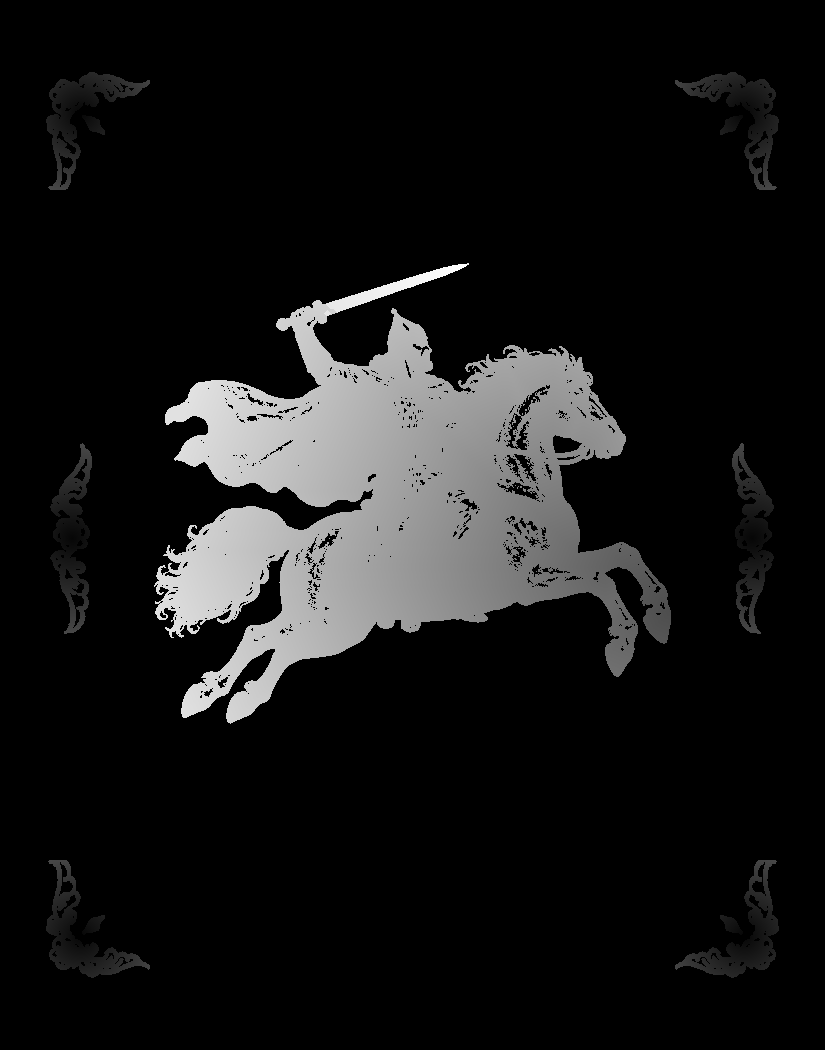
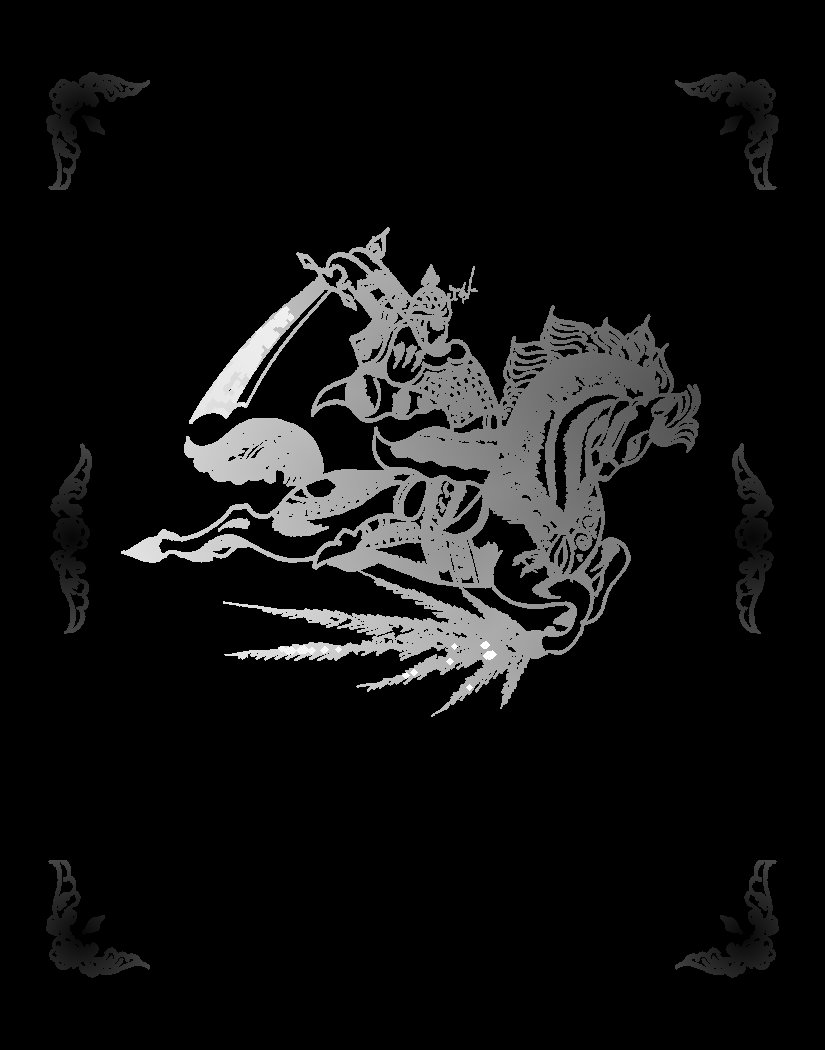
«Гравюра»: на крышку вернулся всадник с фото настоящей крышки (в меню, заставке, при победе и в «Поделиться»); ролик — подпись «тот самый всадник» и звуки игры (кубики, фишки) по кадрам записи
Claude-Session: https://claude.ai/code/session_013vq6NREHT7txoK1nXmxN83

Changed region(s): [[0.1515, 0.2133, 0.8485, 0.701]]

diff --git a/index.html b/index.html
@@ -1042,10 +1042,10 @@ function probeFps(){
 }
 // GAME_VERSION — для людей, меняется при крупных обновлениях; APP_VERSION — номер сборки для кэша, растёт при каждой выкладке
 const GAME_VERSION='1.0';
-const APP_VERSION='152';   // совпадает с V в sw.js: номер сборки (имя кэша)
+const APP_VERSION='153';   // совпадает с V в sw.js: номер сборки (имя кэша)
 // AV — короткие хеши содержимого картинок (их пишет tools/stamp.py): адрес меняется, только когда меняется сам файл,
 // поэтому после обновления заново качается лишь то, что изменилось
-/*AV*/const AV={"boards/ararat-thumb.webp":"72ff05c2","boards/ararat.webp":"7c44b1ce","boards/ck-beech.png":"ef00f4f8","boards/ck-bronze.png":"db6b57b9","boards/ck-copper.png":"761c282a","boards/ck-gold.png":"87fddeef","boards/ck-ivory.png":"372b72ce","boards/ck-khatam.png":"8a67a596","boards/ck-khatamd.png":"fc76598b","boards/ck-onyx.png":"bfb41b3a","boards/ck-pearl.png":"83aaf841","boards/ck-pomegranate.png":"73a5236d","boards/ck-silver.png":"18222740","boards/ck-walnut.png":"1857427e","boards/ckside-beech.png":"2e4a01b1","boards/ckside-bronze.png":"700fbb0d","boards/ckside-copper.png":"54a53742","boards/ckside-gold.png":"f3c3b036","boards/ckside-ivory.png":"cce1b2d9","boards/ckside-khatam.png":"ba9fea77","boards/ckside-khatamd.png":"bb2cd930","boards/ckside-onyx.png":"3695f6bf","boards/ckside-pearl.png":"d9c5e6f3","boards/ckside-pomegranate.png":"79fe0975","boards/ckside-silver.png":"6d16c666","boards/ckside-walnut.png":"bc0fa647","boards/die-1.png":"2d6046dd","boards/die-2.png":"dba1ef51","boards/die-3.png":"c4754c62","boards/die-4.png":"c26495e1","boards/die-5.png":"49661381","boards/die-6.png":"3d46b683","boards/die-amber-1.png":"105d06f3","boards/die-amber-2.png":"f7695264","boards/die-amber-3.png":"518fcc5b","boards/die-amber-4.png":"82e42d65","boards/die-amber-5.png":"a53a1fed","boards/die-amber-6.png":"6114a46b","boards/die-gold-1.png":"606f1c7a","boards/die-gold-2.png":"68eb7219","boards/die-gold-3.png":"4abf64c2","boards/die-gold-4.png":"7ff8a963","boards/die-gold-5.png":"9f589a63","boards/die-gold-6.png":"f67c180d","boards/die-wood-1.png":"f9fecd23","boards/die-wood-2.png":"dad9e71b","boards/die-wood-3.png":"ebe40557","boards/die-wood-4.png":"f8c4f6d2","boards/die-wood-5.png":"239c202c","boards/die-wood-6.png":"ea05a4a3","boards/glass-thumb.webp":"5db12bdb","boards/glass.webp":"3fe1cddb","boards/goldrev-med-l.webp":"875c719a","boards/goldrev-med-r.webp":"beae367a","boards/goldrev-thumb.webp":"1b2ad914","boards/goldrev.webp":"898ad659","boards/gravura-lid-order.png":"89774fcd","boards/gravura-lid-plain.webp":"e9366ab5","boards/gravura-lid.webp":"62c35a03","boards/gravura-thumb.webp":"8ccf7340","boards/gravura.webp":"8d2f6ae3","boards/intro-rev-w.webp":"c1e7a4bf","boards/intro-rev.webp":"9627dbfd","boards/leafshade.webp":"8666bd89","boards/lid-plain.webp":"32dbab24","boards/lid.webp":"47f4a845","boards/maple.webp":"c7e0d43c","boards/night-thumb.webp":"61a42599","boards/night.webp":"96cd9880","boards/plaque.webp":"6c60c0b6","boards/pomegranate-thumb.webp":"d5574e56","boards/pomegranate.webp":"a89189f5","boards/prop-beads.webp":"01fd0477","boards/prop-cup.webp":"67e8e539","boards/prop-pack.webp":"a1f55e5d","boards/pt-ararat-long.png":"b706af0c","boards/pt-ararat-short.png":"0d9bdbb6","boards/pt-glass-long.png":"2474d3b3","boards/pt-glass-short.png":"2474d3b3","boards/pt-goldrev-long.png":"b706af0c","boards/pt-goldrev-short.png":"0d9bdbb6","boards/pt-gravura-long.png":"e2440a04","boards/pt-gravura-short.png":"e2440a04","boards/pt-night-long.png":"c9576df0","boards/pt-night-short.png":"c9576df0","boards/pt-pomegranate-long.png":"b706af0c","boards/pt-pomegranate-short.png":"0d9bdbb6","boards/pt-sevan-long.png":"b706af0c","boards/pt-sevan-short.png":"0d9bdbb6","boards/pt-winter-long.png":"b706af0c","boards/pt-winter-short.png":"0d9bdbb6","boards/pt-yerevan-long.png":"f28ec383","boards/pt-yerevan-short.png":"78fa0ed8","boards/sevan-thumb.webp":"35db3522","boards/sevan.webp":"56ec51be","boards/table.webp":"d353fc6c","boards/walnut-plank.webp":"3f05219c","boards/winter-thumb.webp":"2abf62d7","boards/winter.webp":"dca71660","boards/yerevan-thumb.webp":"4817779b","boards/yerevan.webp":"64e36c39"};/*/AV*/
+/*AV*/const AV={"boards/ararat-thumb.webp":"72ff05c2","boards/ararat.webp":"7c44b1ce","boards/ck-beech.png":"ef00f4f8","boards/ck-bronze.png":"db6b57b9","boards/ck-copper.png":"761c282a","boards/ck-gold.png":"87fddeef","boards/ck-ivory.png":"372b72ce","boards/ck-khatam.png":"8a67a596","boards/ck-khatamd.png":"fc76598b","boards/ck-onyx.png":"bfb41b3a","boards/ck-pearl.png":"83aaf841","boards/ck-pomegranate.png":"73a5236d","boards/ck-silver.png":"18222740","boards/ck-walnut.png":"1857427e","boards/ckside-beech.png":"2e4a01b1","boards/ckside-bronze.png":"700fbb0d","boards/ckside-copper.png":"54a53742","boards/ckside-gold.png":"f3c3b036","boards/ckside-ivory.png":"cce1b2d9","boards/ckside-khatam.png":"ba9fea77","boards/ckside-khatamd.png":"bb2cd930","boards/ckside-onyx.png":"3695f6bf","boards/ckside-pearl.png":"d9c5e6f3","boards/ckside-pomegranate.png":"79fe0975","boards/ckside-silver.png":"6d16c666","boards/ckside-walnut.png":"bc0fa647","boards/die-1.png":"2d6046dd","boards/die-2.png":"dba1ef51","boards/die-3.png":"c4754c62","boards/die-4.png":"c26495e1","boards/die-5.png":"49661381","boards/die-6.png":"3d46b683","boards/die-amber-1.png":"105d06f3","boards/die-amber-2.png":"f7695264","boards/die-amber-3.png":"518fcc5b","boards/die-amber-4.png":"82e42d65","boards/die-amber-5.png":"a53a1fed","boards/die-amber-6.png":"6114a46b","boards/die-gold-1.png":"606f1c7a","boards/die-gold-2.png":"68eb7219","boards/die-gold-3.png":"4abf64c2","boards/die-gold-4.png":"7ff8a963","boards/die-gold-5.png":"9f589a63","boards/die-gold-6.png":"f67c180d","boards/die-wood-1.png":"f9fecd23","boards/die-wood-2.png":"dad9e71b","boards/die-wood-3.png":"ebe40557","boards/die-wood-4.png":"f8c4f6d2","boards/die-wood-5.png":"239c202c","boards/die-wood-6.png":"ea05a4a3","boards/glass-thumb.webp":"5db12bdb","boards/glass.webp":"3fe1cddb","boards/goldrev-med-l.webp":"875c719a","boards/goldrev-med-r.webp":"beae367a","boards/goldrev-thumb.webp":"1b2ad914","boards/goldrev.webp":"898ad659","boards/gravura-lid-order.png":"b12e4361","boards/gravura-lid-plain.webp":"e9366ab5","boards/gravura-lid.webp":"500e3194","boards/gravura-thumb.webp":"8ccf7340","boards/gravura.webp":"8d2f6ae3","boards/intro-rev-w.webp":"c1e7a4bf","boards/intro-rev.webp":"9627dbfd","boards/leafshade.webp":"8666bd89","boards/lid-plain.webp":"32dbab24","boards/lid.webp":"47f4a845","boards/maple.webp":"c7e0d43c","boards/night-thumb.webp":"61a42599","boards/night.webp":"96cd9880","boards/plaque.webp":"6c60c0b6","boards/pomegranate-thumb.webp":"d5574e56","boards/pomegranate.webp":"a89189f5","boards/prop-beads.webp":"01fd0477","boards/prop-cup.webp":"67e8e539","boards/prop-pack.webp":"a1f55e5d","boards/pt-ararat-long.png":"b706af0c","boards/pt-ararat-short.png":"0d9bdbb6","boards/pt-glass-long.png":"2474d3b3","boards/pt-glass-short.png":"2474d3b3","boards/pt-goldrev-long.png":"b706af0c","boards/pt-goldrev-short.png":"0d9bdbb6","boards/pt-gravura-long.png":"e2440a04","boards/pt-gravura-short.png":"e2440a04","boards/pt-night-long.png":"c9576df0","boards/pt-night-short.png":"c9576df0","boards/pt-pomegranate-long.png":"b706af0c","boards/pt-pomegranate-short.png":"0d9bdbb6","boards/pt-sevan-long.png":"b706af0c","boards/pt-sevan-short.png":"0d9bdbb6","boards/pt-winter-long.png":"b706af0c","boards/pt-winter-short.png":"0d9bdbb6","boards/pt-yerevan-long.png":"f28ec383","boards/pt-yerevan-short.png":"78fa0ed8","boards/sevan-thumb.webp":"35db3522","boards/sevan.webp":"56ec51be","boards/table.webp":"d353fc6c","boards/walnut-plank.webp":"3f05219c","boards/winter-thumb.webp":"2abf62d7","boards/winter.webp":"dca71660","boards/yerevan-thumb.webp":"4817779b","boards/yerevan.webp":"64e36c39"};/*/AV*/
 const av=p=>p+'?v='+(AV[p]||APP_VERSION);
 const NS='http://www.w3.org/2000/svg';
 const f2=v=>(+v).toFixed(1);

diff --git a/sw.js b/sw.js
@@ -1,8 +1,8 @@
 // Офлайн-кэш: страница, доски, звуки и шрифты кэшируются при установке.
-const V = '152';                 // = APP_VERSION в index.html
+const V = '153';                 // = APP_VERSION в index.html
 const VERSION = 'nardy-v' + V;
 // хеши содержимого картинок — те же, что AV в index.html (пишет tools/stamp.py)
-/*AV*/const AV={"boards/ararat-thumb.webp":"72ff05c2","boards/ararat.webp":"7c44b1ce","boards/ck-beech.png":"ef00f4f8","boards/ck-bronze.png":"db6b57b9","boards/ck-copper.png":"761c282a","boards/ck-gold.png":"87fddeef","boards/ck-ivory.png":"372b72ce","boards/ck-khatam.png":"8a67a596","boards/ck-khatamd.png":"fc76598b","boards/ck-onyx.png":"bfb41b3a","boards/ck-pearl.png":"83aaf841","boards/ck-pomegranate.png":"73a5236d","boards/ck-silver.png":"18222740","boards/ck-walnut.png":"1857427e","boards/ckside-beech.png":"2e4a01b1","boards/ckside-bronze.png":"700fbb0d","boards/ckside-copper.png":"54a53742","boards/ckside-gold.png":"f3c3b036","boards/ckside-ivory.png":"cce1b2d9","boards/ckside-khatam.png":"ba9fea77","boards/ckside-khatamd.png":"bb2cd930","boards/ckside-onyx.png":"3695f6bf","boards/ckside-pearl.png":"d9c5e6f3","boards/ckside-pomegranate.png":"79fe0975","boards/ckside-silver.png":"6d16c666","boards/ckside-walnut.png":"bc0fa647","boards/die-1.png":"2d6046dd","boards/die-2.png":"dba1ef51","boards/die-3.png":"c4754c62","boards/die-4.png":"c26495e1","boards/die-5.png":"49661381","boards/die-6.png":"3d46b683","boards/die-amber-1.png":"105d06f3","boards/die-amber-2.png":"f7695264","boards/die-amber-3.png":"518fcc5b","boards/die-amber-4.png":"82e42d65","boards/die-amber-5.png":"a53a1fed","boards/die-amber-6.png":"6114a46b","boards/die-gold-1.png":"606f1c7a","boards/die-gold-2.png":"68eb7219","boards/die-gold-3.png":"4abf64c2","boards/die-gold-4.png":"7ff8a963","boards/die-gold-5.png":"9f589a63","boards/die-gold-6.png":"f67c180d","boards/die-wood-1.png":"f9fecd23","boards/die-wood-2.png":"dad9e71b","boards/die-wood-3.png":"ebe40557","boards/die-wood-4.png":"f8c4f6d2","boards/die-wood-5.png":"239c202c","boards/die-wood-6.png":"ea05a4a3","boards/glass-thumb.webp":"5db12bdb","boards/glass.webp":"3fe1cddb","boards/goldrev-med-l.webp":"875c719a","boards/goldrev-med-r.webp":"beae367a","boards/goldrev-thumb.webp":"1b2ad914","boards/goldrev.webp":"898ad659","boards/gravura-lid-order.png":"89774fcd","boards/gravura-lid-plain.webp":"e9366ab5","boards/gravura-lid.webp":"62c35a03","boards/gravura-thumb.webp":"8ccf7340","boards/gravura.webp":"8d2f6ae3","boards/intro-rev-w.webp":"c1e7a4bf","boards/intro-rev.webp":"9627dbfd","boards/leafshade.webp":"8666bd89","boards/lid-plain.webp":"32dbab24","boards/lid.webp":"47f4a845","boards/maple.webp":"c7e0d43c","boards/night-thumb.webp":"61a42599","boards/night.webp":"96cd9880","boards/plaque.webp":"6c60c0b6","boards/pomegranate-thumb.webp":"d5574e56","boards/pomegranate.webp":"a89189f5","boards/prop-beads.webp":"01fd0477","boards/prop-cup.webp":"67e8e539","boards/prop-pack.webp":"a1f55e5d","boards/pt-ararat-long.png":"b706af0c","boards/pt-ararat-short.png":"0d9bdbb6","boards/pt-glass-long.png":"2474d3b3","boards/pt-glass-short.png":"2474d3b3","boards/pt-goldrev-long.png":"b706af0c","boards/pt-goldrev-short.png":"0d9bdbb6","boards/pt-gravura-long.png":"e2440a04","boards/pt-gravura-short.png":"e2440a04","boards/pt-night-long.png":"c9576df0","boards/pt-night-short.png":"c9576df0","boards/pt-pomegranate-long.png":"b706af0c","boards/pt-pomegranate-short.png":"0d9bdbb6","boards/pt-sevan-long.png":"b706af0c","boards/pt-sevan-short.png":"0d9bdbb6","boards/pt-winter-long.png":"b706af0c","boards/pt-winter-short.png":"0d9bdbb6","boards/pt-yerevan-long.png":"f28ec383","boards/pt-yerevan-short.png":"78fa0ed8","boards/sevan-thumb.webp":"35db3522","boards/sevan.webp":"56ec51be","boards/table.webp":"d353fc6c","boards/walnut-plank.webp":"3f05219c","boards/winter-thumb.webp":"2abf62d7","boards/winter.webp":"dca71660","boards/yerevan-thumb.webp":"4817779b","boards/yerevan.webp":"64e36c39"};/*/AV*/
+/*AV*/const AV={"boards/ararat-thumb.webp":"72ff05c2","boards/ararat.webp":"7c44b1ce","boards/ck-beech.png":"ef00f4f8","boards/ck-bronze.png":"db6b57b9","boards/ck-copper.png":"761c282a","boards/ck-gold.png":"87fddeef","boards/ck-ivory.png":"372b72ce","boards/ck-khatam.png":"8a67a596","boards/ck-khatamd.png":"fc76598b","boards/ck-onyx.png":"bfb41b3a","boards/ck-pearl.png":"83aaf841","boards/ck-pomegranate.png":"73a5236d","boards/ck-silver.png":"18222740","boards/ck-walnut.png":"1857427e","boards/ckside-beech.png":"2e4a01b1","boards/ckside-bronze.png":"700fbb0d","boards/ckside-copper.png":"54a53742","boards/ckside-gold.png":"f3c3b036","boards/ckside-ivory.png":"cce1b2d9","boards/ckside-khatam.png":"ba9fea77","boards/ckside-khatamd.png":"bb2cd930","boards/ckside-onyx.png":"3695f6bf","boards/ckside-pearl.png":"d9c5e6f3","boards/ckside-pomegranate.png":"79fe0975","boards/ckside-silver.png":"6d16c666","boards/ckside-walnut.png":"bc0fa647","boards/die-1.png":"2d6046dd","boards/die-2.png":"dba1ef51","boards/die-3.png":"c4754c62","boards/die-4.png":"c26495e1","boards/die-5.png":"49661381","boards/die-6.png":"3d46b683","boards/die-amber-1.png":"105d06f3","boards/die-amber-2.png":"f7695264","boards/die-amber-3.png":"518fcc5b","boards/die-amber-4.png":"82e42d65","boards/die-amber-5.png":"a53a1fed","boards/die-amber-6.png":"6114a46b","boards/die-gold-1.png":"606f1c7a","boards/die-gold-2.png":"68eb7219","boards/die-gold-3.png":"4abf64c2","boards/die-gold-4.png":"7ff8a963","boards/die-gold-5.png":"9f589a63","boards/die-gold-6.png":"f67c180d","boards/die-wood-1.png":"f9fecd23","boards/die-wood-2.png":"dad9e71b","boards/die-wood-3.png":"ebe40557","boards/die-wood-4.png":"f8c4f6d2","boards/die-wood-5.png":"239c202c","boards/die-wood-6.png":"ea05a4a3","boards/glass-thumb.webp":"5db12bdb","boards/glass.webp":"3fe1cddb","boards/goldrev-med-l.webp":"875c719a","boards/goldrev-med-r.webp":"beae367a","boards/goldrev-thumb.webp":"1b2ad914","boards/goldrev.webp":"898ad659","boards/gravura-lid-order.png":"b12e4361","boards/gravura-lid-plain.webp":"e9366ab5","boards/gravura-lid.webp":"500e3194","boards/gravura-thumb.webp":"8ccf7340","boards/gravura.webp":"8d2f6ae3","boards/intro-rev-w.webp":"c1e7a4bf","boards/intro-rev.webp":"9627dbfd","boards/leafshade.webp":"8666bd89","boards/lid-plain.webp":"32dbab24","boards/lid.webp":"47f4a845","boards/maple.webp":"c7e0d43c","boards/night-thumb.webp":"61a42599","boards/night.webp":"96cd9880","boards/plaque.webp":"6c60c0b6","boards/pomegranate-thumb.webp":"d5574e56","boards/pomegranate.webp":"a89189f5","boards/prop-beads.webp":"01fd0477","boards/prop-cup.webp":"67e8e539","boards/prop-pack.webp":"a1f55e5d","boards/pt-ararat-long.png":"b706af0c","boards/pt-ararat-short.png":"0d9bdbb6","boards/pt-glass-long.png":"2474d3b3","boards/pt-glass-short.png":"2474d3b3","boards/pt-goldrev-long.png":"b706af0c","boards/pt-goldrev-short.png":"0d9bdbb6","boards/pt-gravura-long.png":"e2440a04","boards/pt-gravura-short.png":"e2440a04","boards/pt-night-long.png":"c9576df0","boards/pt-night-short.png":"c9576df0","boards/pt-pomegranate-long.png":"b706af0c","boards/pt-pomegranate-short.png":"0d9bdbb6","boards/pt-sevan-long.png":"b706af0c","boards/pt-sevan-short.png":"0d9bdbb6","boards/pt-winter-long.png":"b706af0c","boards/pt-winter-short.png":"0d9bdbb6","boards/pt-yerevan-long.png":"f28ec383","boards/pt-yerevan-short.png":"78fa0ed8","boards/sevan-thumb.webp":"35db3522","boards/sevan.webp":"56ec51be","boards/table.webp":"d353fc6c","boards/walnut-plank.webp":"3f05219c","boards/winter-thumb.webp":"2abf62d7","boards/winter.webp":"dca71660","boards/yerevan-thumb.webp":"4817779b","boards/yerevan.webp":"64e36c39"};/*/AV*/
 const av = p => AV[p] ? p + '?v=' + AV[p] : p;
 const SHELL = [
   './',

diff --git a/tools/render_gravura_lid.py b/tools/render_gravura_lid.py
@@ -1,4 +1,4 @@
-# Крышка нард «Гравюра» для главного меню — по фото настоящей крышки: белый акрил, в центре Давид Сасунский на коне
+# Крышка нард «Гравюра» для главного меню — по фото настоящей крышки: белый акрил, в центре всадник на коне
 # (гравировка, клинок и пламя — красным), в углах и посередине длинных краёв — узорные уголки.
 # Части вырезаны из выпрямленного фото (tools/tex/uzor/lid-*.png: цвет штриха + прозрачность), масштаб как на фото.
 # Результат: .preview/layers-gravura-lid.npz для tools/blender_generic.py (крышка 825×1050, как boards/lid.webp).
@@ -45,8 +45,7 @@ def build():
     h = 22 * np.clip(d / 14, 0, 1) ** .6                      # скруглённая кромка крышки
     alb = np.ones((H, W, 3)) * np.array((.84, .83, .80)) * (.975 + .05 * fbm(H, W, 3, 4, 31, 3))[..., None]
     ink = np.zeros((H, W))
-    # Давид Сасунский на коне — оригинальная гравюра (tools/tex/uzor/david-src.png, сгенерирована в Figma по описанию)
-    put(alb, ink, 'lid-david', LW / 2, LH * .47, width=517)
+    put(alb, ink, 'lid-rider', LW / 2, LH * .45)              # всадник с фото настоящей крышки
     cw, chh = 160 * PH / 2, 180 * PH / 2
     for fh in (False, True):
         for fv in (False, True):

diff --git a/tools/promo/reel/sfx_reel.py b/tools/promo/reel/sfx_reel.py
@@ -66,12 +66,11 @@ if PLAN == 'grav':                                           # ролик «Гр
     put(6.1, whoosh(.9, 1500, 400, .4), .3)                    # нарды уезжают в меню
     put(9.15, tap(), .5); put(9.3, whoosh(.9, 300, 1500, .5), .35)   # крышка открывается
     put(12.35, pop(), .5)                                        # реплика судьи
-    for t, nm in ((13.95, 'dice-throw-2.m4a'), (18.15, 'dice-throw-1.m4a')):
-        x = load(nm)
-        if x is not None: put(t, x, .5)
-    for k, t in enumerate((15.6, 16.2, 21.7)):
-        x = load('chip-lay-%d.m4a' % (k % 3 + 1))
-        if x is not None: put(t, x, .55)
+    def need(nm):
+        x = load(nm); assert x is not None, 'нет звука игры ' + nm + ' (второй аргумент — папка sounds/)'; return x
+    for t, nm in ((13.95, 'dice-throw-2.m4a'), (18.15, 'dice-throw-1.m4a')): put(t, need(nm), 1.2)   # кубики (по кадрам записи)
+    put(18.1, tap(), .45); put(19.98, tap(), .5)                 # нажатие «бросить», выбор фишки
+    for k, t in enumerate((15.66, 16.12, 21.8)): put(t, need('chip-lay-%d.m4a' % (k % 3 + 1)), 1.25)   # фишки ложатся
     put(22.0, whoosh(1.0, 200, 6000, .9), .95); put(22.95, thump(.5, 52), .75); put(22.95, shimmer(.9), .9); put(23.1, chime(2.2), .45)
 elif PLAN == 'pov':                                            # ролик «POV: соседи по двору»
     put(0.0, whoosh(1.3, 250, 2400, .55), .55); put(1.05, thump(.7, 42), .35)

diff --git a/tools/promo/reel/cards.py b/tools/promo/reel/cards.py
@@ -57,7 +57,7 @@ def bubble(text, y, size=50, maxw=980):                         # реплика
 if SET == 'grav':                                              # ролик «Гравюра»: нашёл дома нарды — перенёс в игру
     FG, FS = font('Forum.ttf', 104), font('Onest.ttf', 48)
     save('g_intro', text_layer(['Нашёл дома', 'старые нарды'], 280, font('Forum.ttf', 112), GOLD, grad=True), text_layer(['…и перенёс их в игру'], 1450, font('Onest.ttf', 54), CREAM))
-    save('g_lid', text_layer(['На крышке —', 'Давид Сасунский'], 280, FG, GOLD, grad=True))
+    save('g_lid', text_layer(['На крышке —', 'тот самый всадник'], 280, FG, GOLD, grad=True))
     save('g_board', text_layer(['Доска «Гравюра»'], 300, FG, GOLD, grad=True), text_layer(['белый акрил и гравировка,', 'как у настоящих'], 1450, FS, CREAM))
     save('g_judge', text_layer(['Новый соперник —', 'судья Левон'], 280, FG, GOLD, grad=True), text_layer(['считает каждый бросок'], 1450, FS, CREAM))
     save('q_judge', bubble('«Играем честно. Бросай.»', 1390))

diff --git a/tools/gravura_intro_order.py b/tools/gravura_intro_order.py
@@ -18,7 +18,7 @@ yy, xx = np.mgrid[0:LH, 0:LW].astype(float)
 rider = sword = None
 for name, m, c in L.PARTS:
     md, cd = down(m), c.reshape(LH, K, LW, K, 3).mean((1, 3))
-    if name == 'lid-david':
+    if name in ('lid-david', 'lid-rider'):
         red = (cd[..., 0] - cd[..., 1] > .12) & (md > .2)
         red = ndi.binary_opening(red, iterations=1); red = ndi.binary_dilation(red, iterations=2) & (md > .05)
         rider = (md > .05) & ~red; sword = red
